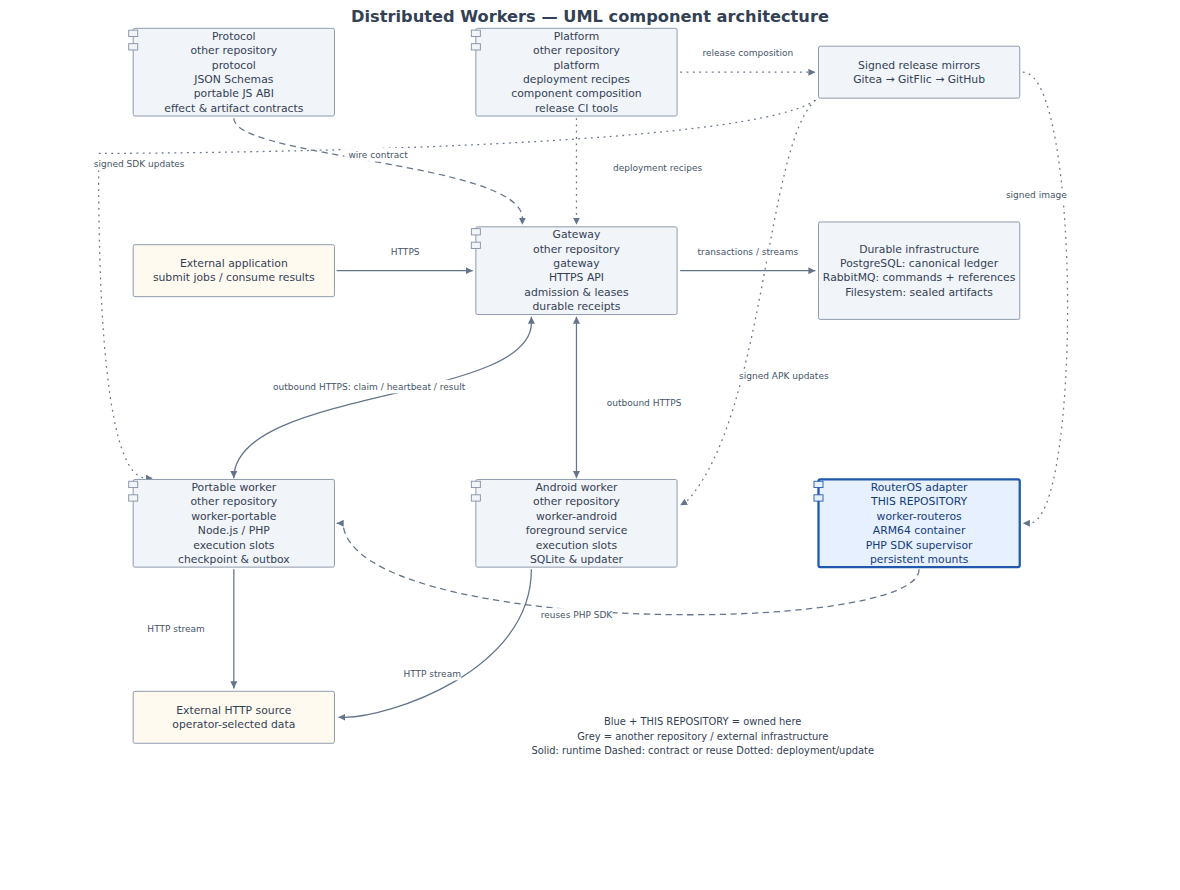
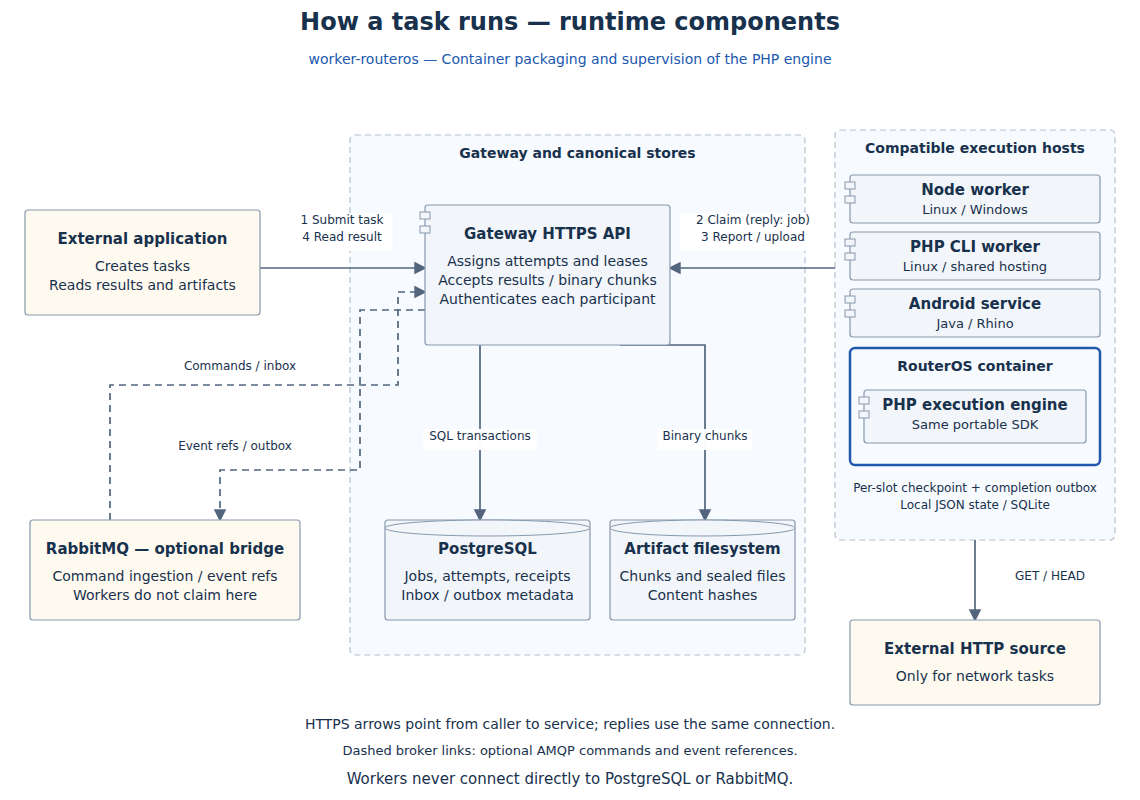
Separate runtime task flow from UML repository dependencies
Show HTTPS pull, PostgreSQL scheduling, optional AMQP and binary storage separately from source/release dependencies. Represent RouterOS as a container with a local PHP engine, identify non-runtime packages, and validate routes and ownership.

diff --git a/README.md b/README.md
@@ -6,17 +6,30 @@ protocol and runtime. Configuration and executable programs are supplied by the
 operator; application-specific code and data do not belong in this repository.
 
 <!-- fleet-architecture:start -->
-## Architecture and repository boundary
+## Architecture
 
-![Shared UML component architecture; worker-routeros is highlighted](docs/architecture.png)
+### How a task runs
 
-All six repositories show the same system. **Blue and “THIS REPOSITORY” identify the component owned here**; grey boxes show sibling repositories or external infrastructure. Solid arrows carry runtime traffic, dashed arrows show contracts or reuse, and dotted arrows show deployment or updates. The protocol applies to the gateway and both execution SDKs; deployment arrows show the principal composition entry points.
+![Runtime task flow, API callers and durable stores](docs/architecture.png)
+
+1. An external application submits a task to the gateway API.
+2. A compatible worker claims it; the API assigns a fenced attempt in PostgreSQL and returns the task. The worker renews its lease while running.
+3. The worker uploads binary output and submits its result. Gateway acknowledgements confirm persisted state.
+4. The application reads the canonical result and downloads referenced artifacts.
+
+Workers initiate HTTPS connections. PostgreSQL schedules claims and stores canonical execution state. RabbitMQ is an optional command/event bridge; workers do not pull their tasks from it. The four adapter boxes show implementation types, not a machine count.
+
+### Where this repository fits
+
+![UML package dependencies; this repository is blue](docs/repositories.png)
+
+The **blue package labelled THIS REPOSITORY** is owned here. Dashed arrows point from a package to the contract, SDK or release bundle it uses; they do not represent network calls. `protocol` and `platform` are source/tooling packages, not running services. RouterOS packages the PHP SDK inside its own container rather than calling a separate PHP service.
 
 This repository owns the minimal ARM64 container, supervisor, persistent-mount contract and image packaging. The portable repository supplies the PHP execution engine; task definitions and application programs remain operator-owned. The image bootstrap pin and the currently selected signed SDK are separate versions.
 
 Implementation: [container supervisor](container/), [image builder](tools/build.py), [bootstrap SDK pin](runtime.lock.json), [example configuration](worker.example.json).
 
-[SVG source](docs/architecture.svg) · [Editable DOT source](docs/architecture.dot). The common model and Python-only SVG renderer live in [platform](https://gitflic.ru/project/distributed-workers/platform). From its checkout, `python3 -B tools/render-architecture.py --workspace ../.. --png` regenerates every ownership view in a workspace containing `repos/<component>`. PNG previews work on forges that serve SVG as text. SVG generation uses Python alone; PNG rendering uses a local Chromium browser. No diagram service or production configuration is needed.
+Editable sources: [runtime SVG](docs/architecture.svg), [runtime DOT](docs/architecture.dot), [repository SVG](docs/repositories.svg), [repository DOT](docs/repositories.dot). Both view families come from the shared model in [platform](https://gitflic.ru/project/distributed-workers/platform); each repository changes only the ownership highlight. PNG previews display on all three forges. Regenerate with `python3 -B tools/render-architecture.py --workspace ../.. --png` from the platform checkout. SVG needs Python alone; PNG needs local Chromium and Pillow.
 <!-- fleet-architecture:end -->
 
 The worker connects outbound, receives its server-assigned identity and reports
